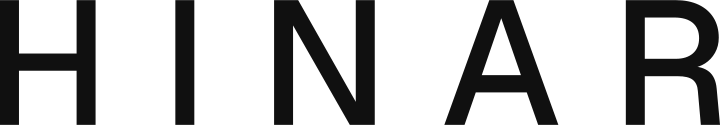
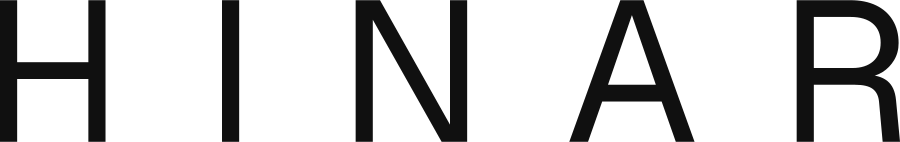
fix(shop): redraw the wordmark to the weight it was supposed to have
Side by side with the mark it was meant to sit beside, the first cut was
obviously wrong - heavier and tighter, blocky where the reference is airy. So
this time the two numbers that decide whether two wordmarks read as siblings
were measured off the reference rather than judged by eye, as ratios of cap
height so the comparison survives any resolution:

                  reference    was      now
  stroke weight      13.2%    15.2%    12.7%
  letter gap         75.4%    59.4%    77.5%

Geist Regular at 0.40em, down from Medium at 0.30em. Same typeface as the
storefront, same #101010 as the rest of the ink.

AND THE R WAS BROKEN
Not subtly: it rendered as a solid black wedge, which at header size reads as
an odd piece of styling rather than a fault. The pen position accumulates as
each letter advances, and by the last one it was 399.40000000000003 -
opentype.js 2.0.0 emits NaN into the curve for that, while handling a clean
399.4. Rounding the position each step fixes it.

It was in the file that shipped, and nothing caught it, so the generator now
refuses to write an SVG containing a non-finite coordinate and checks it laid
out as many letters as it was given. A wordmark that is silently wrong is worse
than one that fails to build.

brand/build-wordmark.mjs is committed alongside the output so the next redraw
does not start from scratch, and brand/README.md records the two ratios to
keep.

diff --git a/brand/README.md b/brand/README.md
@@ -7,15 +7,36 @@ volume is ever lost, re-upload `hinar-wordmark.png` from **Admin → Branding**.
 | File | What it is |
 |---|---|
 | `hinar-wordmark.svg` | Source of truth. Letters are outlines, not text, so it renders identically without Geist installed. |
-| `hinar-wordmark.png` | 720×125, transparent. This exact file is what is uploaded as the store logo. |
+| `hinar-wordmark.png` | 900×142, transparent. This exact file is what is uploaded as the store logo. |
+| `build-wordmark.mjs` | Regenerates both. Needs `opentype.js` and `Geist-400.ttf` beside it. |
 
-**HINAR** set in Geist Medium, uppercase, with 0.30em of tracking — the wide
-spacing is the whole mark, so keep it if the wordmark is ever redrawn. The
-colour is `#101010`, matching `--color-ink`, not pure black.
+## The mark
+
+**HINAR** in Geist Regular, uppercase, tracked out to 0.40em, in `#101010` —
+`--color-ink`, not pure black.
+
+Weight and tracking are the whole design, and they are not guesses. They were
+measured off the reference the shop wanted to sit beside, as ratios of cap
+height so the comparison survives any resolution:
+
+| | reference | this mark |
+|---|---|---|
+| stroke weight | 13.2% of cap | 12.7% |
+| letter gap | 75.4% of cap | 77.5% |
+
+A first cut in Geist Medium at 0.30em came out at 15.2% and 59.4% — visibly
+heavier and tighter, and the two marks did not read as siblings. If the wordmark
+is ever redrawn, keep those two ratios and it will still belong.
 
 The header sizes the logo from its own dimensions and caps it at 40px tall, so a
 wider or narrower redraw needs no code change — only the width and height
 recorded alongside it, which the upload does automatically.
 
-Regenerating it needs the Geist TTF and `opentype.js`; both are external to this
-repo, which is why the outlined SVG is committed rather than a build step.
+## One trap
+
+`build-wordmark.mjs` rounds the pen position at every letter. Left to
+accumulate, it reached `399.40000000000003` by the last letter, and
+opentype.js 2.0.0 emits `NaN` into the curve for that value while handling a
+clean `399.4` — the R came out as a solid wedge. That reads as an odd design
+choice rather than a broken file, so the script now refuses to write an SVG
+containing a non-finite coordinate.
